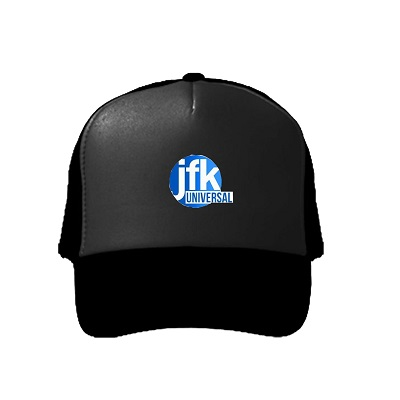
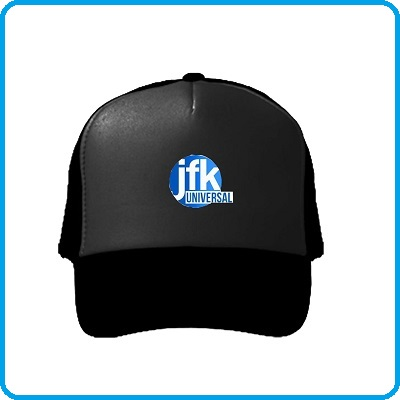
Adjusted Shop's spacing and included cap border
Adjusted Shop's spacing and included border on cap

Changed region(s): [[0.0, 0.0, 1.0, 1.0]]

diff --git a/application/jfk/frontend/views/site/shop.php b/application/jfk/frontend/views/site/shop.php
@@ -6,7 +6,18 @@ use yii\helpers\Html;
 $this->params['breadcrumbs'][] = $this->title; */
 ?>
 
-
+<br>
+<br>
+<br>
+<br>
+<br>
+<br>
+<br>
+<br>
+<br>
+<br>
+<br>
+<br>
 <div class="site-shop">
 	
 	 <div class="row">
